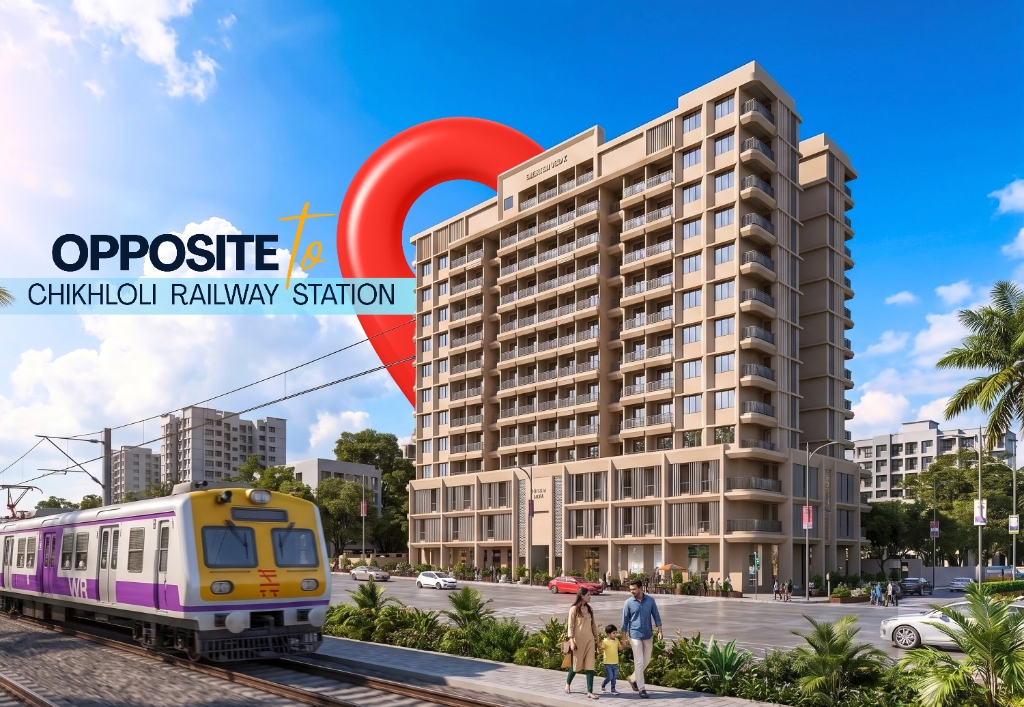
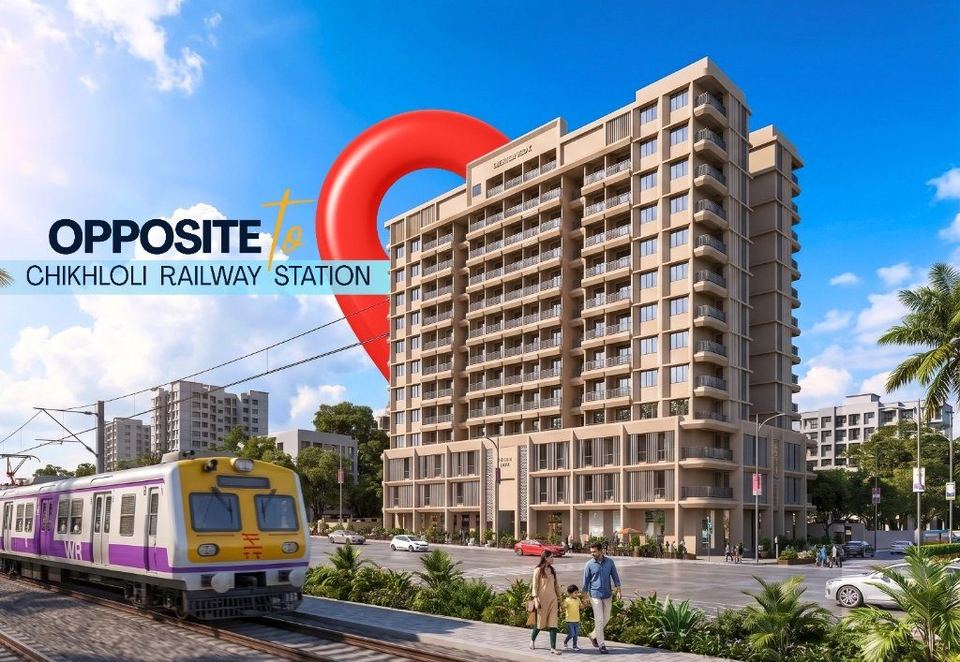
changed hero images

diff --git a/src/data/projectData.js b/src/data/projectData.js
@@ -22,19 +22,19 @@ export const projectDetails = {
   heroSlides: [
     {
       id: 1,
-      image: "/images/HeroImg1.jpeg",
+       image: "/images/Hero4.jpg",
       // title: "Ground + 2 Floor Commercial Marketplace",
       // subtitle: "Shreeji Icon 24 Prime Road-Facing Showroom Spaces & Executive Office Suites"
     },
     {
       id: 2,
-      image: "/images/HeroImg2.jpeg",
+      image: "/images/AriealView.jpeg",
       // title: "Where Comfort Meets Commercial Growth",
       // subtitle: "Prime Main Road Frontage - Just opposite to upcoming Chikhloli Railway Station and also 500m to proposed Metro line, Ambernath (W)"
     },
     {
       id: 3,
-      image: "/images/AriealView.jpeg",
+      image: "/images/amenity_location.jpg",
       // title: "High Pedestrian Footfall Location",
       // subtitle: "5'11\" Wide Otla Walkway & Dedicated Elevator / Fire Lift Access"
     }
